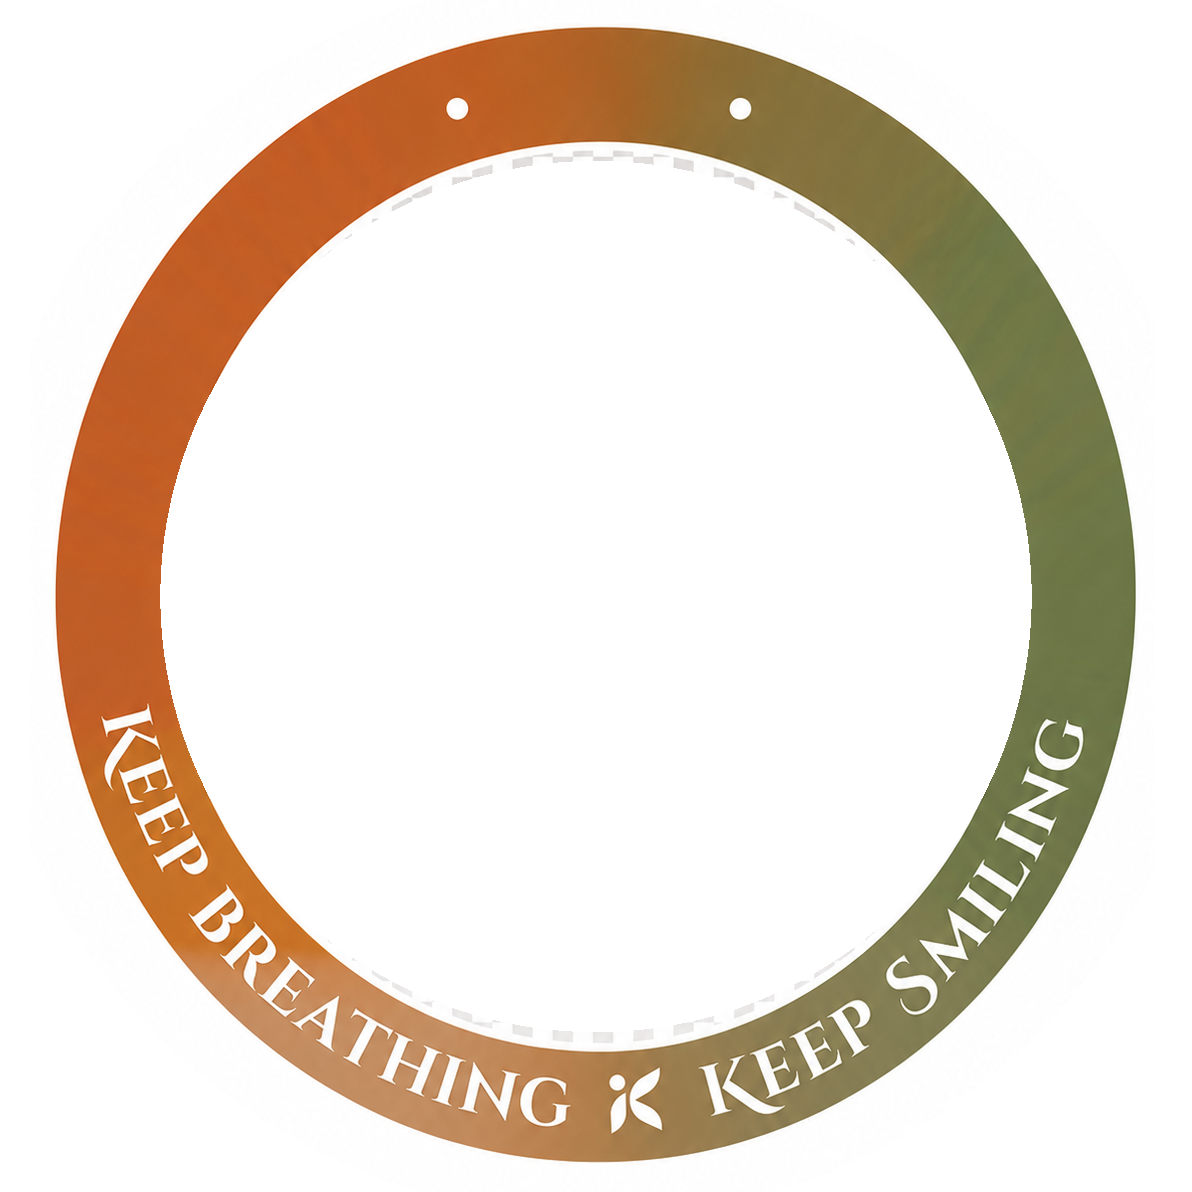
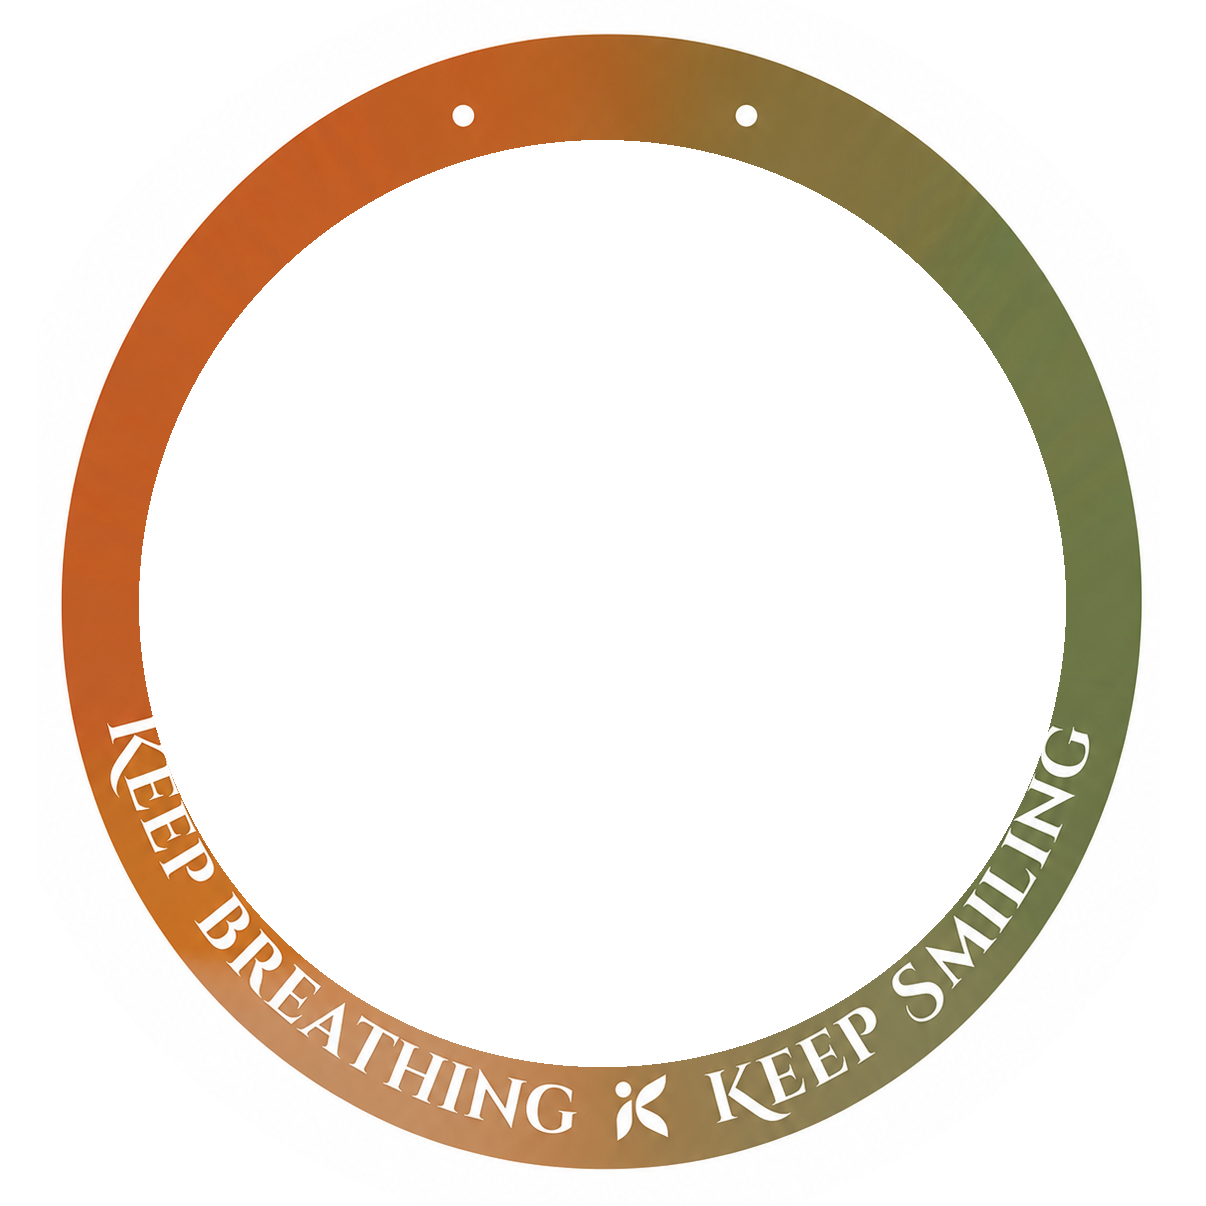
Descri

diff --git a/js/ring-render.js b/js/ring-render.js
@@ -14,8 +14,8 @@ export const STYLE_ORDER = [
 // the (square) overlay — the photo is clipped to this circle and the ring art
 // is drawn on top, so the K badge that dips inward is never cut.
 const RING = {
-  classic: { src: 'assets/classic-ring.png', cx: 0.5, cy: 0.5, inner: 0.379 },
-  bold: { src: 'assets/bold-ring.png', cx: 0.5, cy: 0.5, inner: 0.366 },
+  classic: { src: 'assets/classic-ring.png', cx: 0.5, cy: 0.5, inner: 0.386 },
+  bold: { src: 'assets/bold-ring.png', cx: 0.5, cy: 0.5, inner: 0.384 },
 };
 
 const ringCache = {};

diff --git a/index.html b/index.html
@@ -136,6 +136,6 @@
 <!-- Creator overlay mounts here -->
 <div data-creator-root></div>
 
-<script type="module" src="js/app.js?v=13"></script>
+<script type="module" src="js/app.js?v=14"></script>
 </body>
 </html>

diff --git a/js/app.js b/js/app.js
@@ -1,4 +1,4 @@
-import * as Ring from './ring-render.js?v=5';
+import * as Ring from './ring-render.js?v=6';
 
 /* ---------------- static config (ported from the design) ---------------- */
 